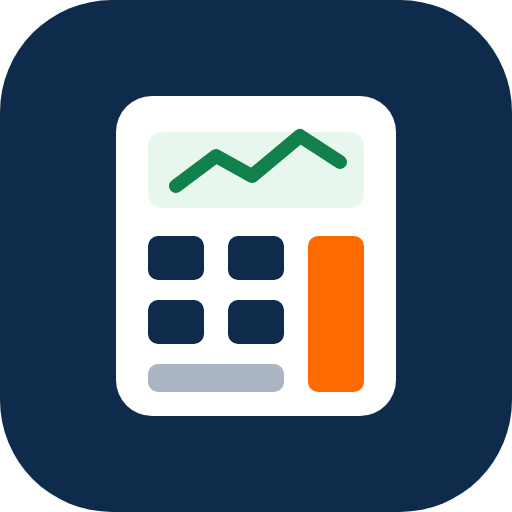
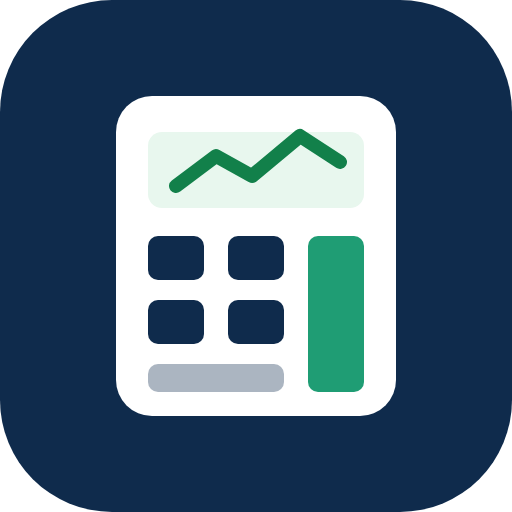
Rebrand as independent tool; add not-affiliated and not-advice notices
Public-sharing hardening: rename 'Moomoo Fee Calculator' to 'Bursa & US
Fee Calculator' (page, manifest, README), keep Moomoo only as a
description of whose fee schedule is used, replace Moomoo brand orange
with a neutral green in the accent and icon, and add clear
'not affiliated' and 'not financial advice' notices with the rates date.
Bump the service worker cache so installed apps pick up the new name.

Claude-Session: https://claude.ai/code/session_019v2dTLDxQQRkMwqpVHnXNb

Changed region(s): [[0.5938, 0.4375, 0.7188, 0.7812]]

diff --git a/site/index.html b/site/index.html
@@ -7,8 +7,8 @@
 <meta name="referrer" content="no-referrer">
 <meta name="color-scheme" content="light dark">
 <meta name="theme-color" content="#0f2b4c">
-<title>Moomoo Fee Calculator</title>
-<meta name="description" content="Moomoo Malaysia fee calculator for Bursa and US stocks">
+<title>Bursa &amp; US Fee Calculator</title>
+<meta name="description" content="Independent fee and P/L calculator for Bursa Malaysia and US stocks, based on the Moomoo Malaysia fee schedule. Not affiliated with Moomoo or Futu.">
 <link rel="manifest" href="manifest.webmanifest">
 <link rel="icon" href="icon.svg" type="image/svg+xml">
 <link rel="apple-touch-icon" href="icon-180.png">
@@ -20,8 +20,8 @@
 <body>
 <div class="wrap">
 <header>
-  <h1>Moomoo Fee Calculator</h1>
-  <span class="asof">Moomoo MY schedule · Sep 2026</span>
+  <h1>Bursa &amp; US Fee Calculator</h1>
+  <span class="asof">Moomoo MY fee schedule · rates as of Sep 2026</span>
 </header>
 
 <div class="seg" role="tablist" aria-label="Market">
@@ -130,8 +130,10 @@
 </section>
 
 <footer>
-  Estimates only, based on Moomoo Securities Malaysia's published fee schedule. Regulatory rates (SEC, TAF, CAT) and FX change;
-  verify against your contract note. Your inputs never leave this device; the only network request fetches the USD/MYR rate.
+  <p><strong>Independent tool.</strong> Not affiliated with, endorsed by or connected to Moomoo, Futu or any broker.
+  Fees follow Moomoo Securities Malaysia's published schedule as of Sep 2026, checked against real contract notes; brokers and regulators change fees, so always check your contract note.</p>
+  <p><strong>Not financial advice.</strong> Results are estimates for information only and are not a recommendation to buy or sell any security.</p>
+  <p>Your inputs never leave this device; the only network request fetches the USD/MYR rate.</p>
 </footer>
 </div>
 

diff --git a/site/styles.css b/site/styles.css
@@ -1,6 +1,6 @@
 :root{
   --bg:#f2f5f9;--card:#fff;--ink:#14213a;--muted:#66728a;--faint:#8e98ab;--line:#e1e7ef;--field:#fff;--field-line:#cdd6e2;
-  --brand:#0f2b4c;--brand-ink:#fff;--accent:#ff6a00;--soft:#f6f8fb;
+  --brand:#0f2b4c;--brand-ink:#fff;--accent:#1f9d74;--soft:#f6f8fb;
   --pos:#12804a;--pos-bg:#e8f7ee;--neg:#c42b3f;--neg-bg:#fdecee;--hl:#a02b62;--hl-bg:#fdf0f6;
   --radius:12px;
 }
@@ -75,6 +75,7 @@ details[open] summary::after{content:"－"}
 .fx-btn:disabled{opacity:.6;cursor:progress}
 #fxStatus.ok{color:var(--pos)}
 #fxStatus.err{color:var(--neg)}
+footer p{margin:0 0 6px}
 footer{font-size:10.5px;color:var(--faint);margin:12px 4px 0;line-height:1.5}
 [hidden]{display:none!important}
 @media (max-width:360px){.wrap{padding:10px 8px}.card{padding:10px}.grid,.opts{gap:6px}.tile .v{font-size:14px}.tile.main .v{font-size:18px}}

diff --git a/site/sw.js b/site/sw.js
@@ -6,7 +6,7 @@
  *   max-age=600 and would otherwise serve files up to 10 minutes stale after a deploy.
  */
 "use strict";
-const CACHE = "fee-calc-v2";
+const CACHE = "fee-calc-v3";
 const SHELL = [
   "./", "index.html", "styles.css", "fees.js", "app.js", "manifest.webmanifest",
   "icon.svg", "icon-180.png", "icon-192.png", "icon-512.png", "icon-maskable-512.png"

diff --git a/README.md b/README.md
@@ -1,6 +1,10 @@
-# Simple Stock Fee Calculator
+# Bursa & US Fee Calculator
 
-Mobile-friendly calculator for **Moomoo Malaysia** trading fees on Bursa Malaysia (MYR) and US (USD) stocks: trade P/L, break-even price and average cost, with every fee itemised. Installs to your phone's home screen and works offline.
+Independent, mobile-friendly calculator for trading fees on Bursa Malaysia (MYR) and US (USD) stocks, based on the **Moomoo Malaysia** fee schedule: trade P/L, break-even price and average cost, with every fee itemised. Installs to your phone's home screen and works offline.
+
+## Disclaimer
+
+Not affiliated with, endorsed by or connected to Moomoo, Futu or any broker. "Moomoo" is used only to identify whose published fee schedule the calculator follows. Results are estimates for information only, not financial or investment advice.
 
 ## Layout
 
